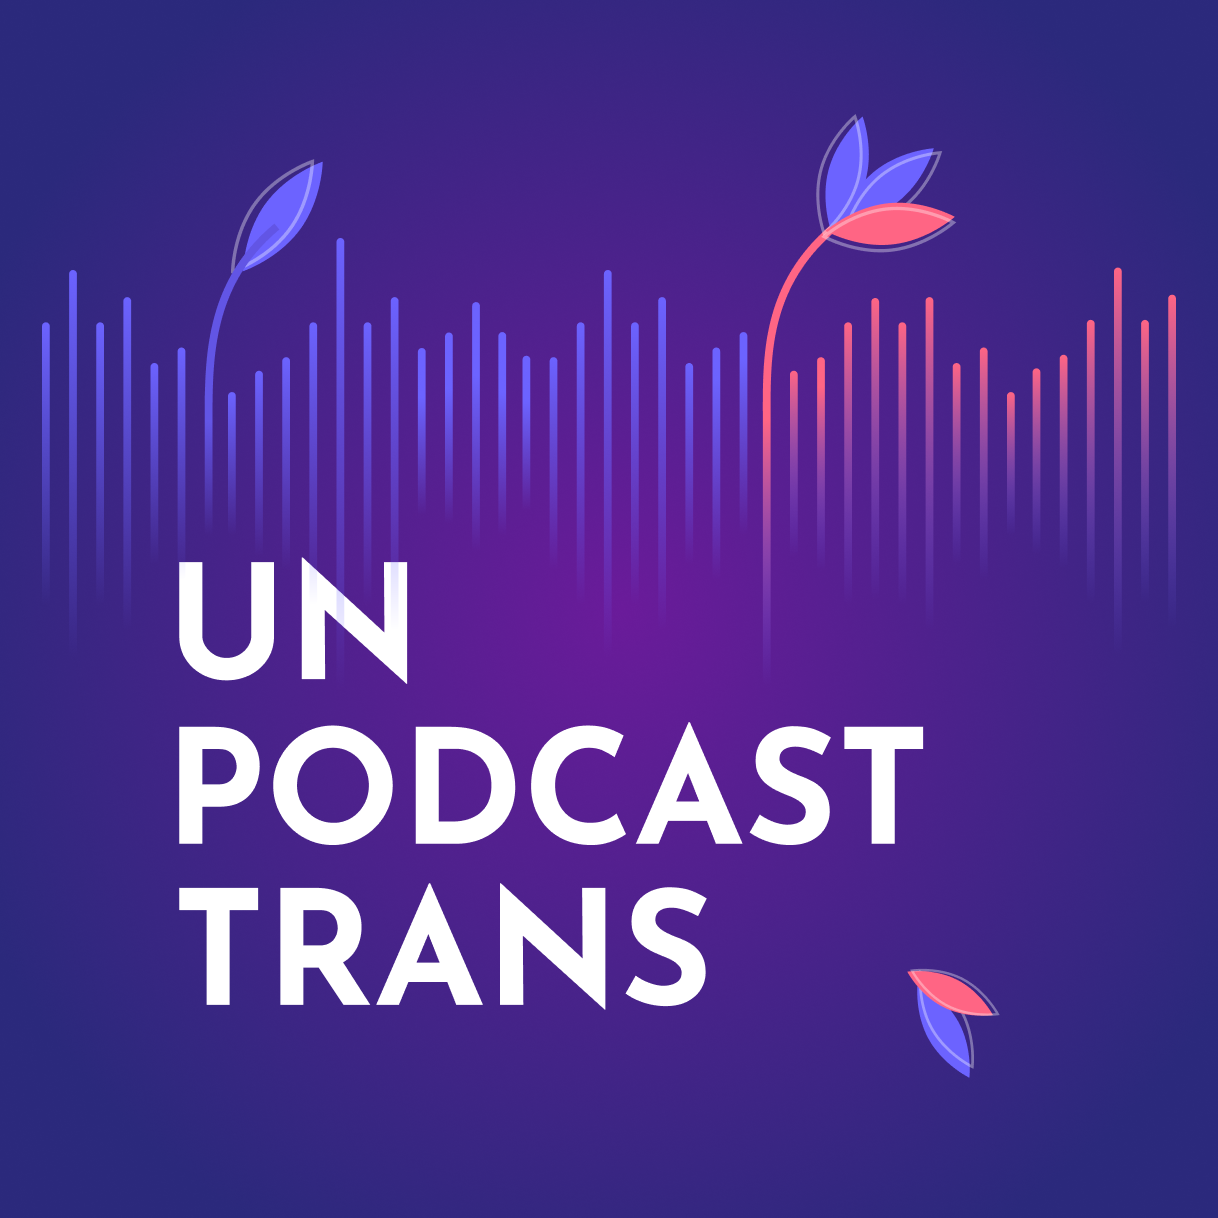
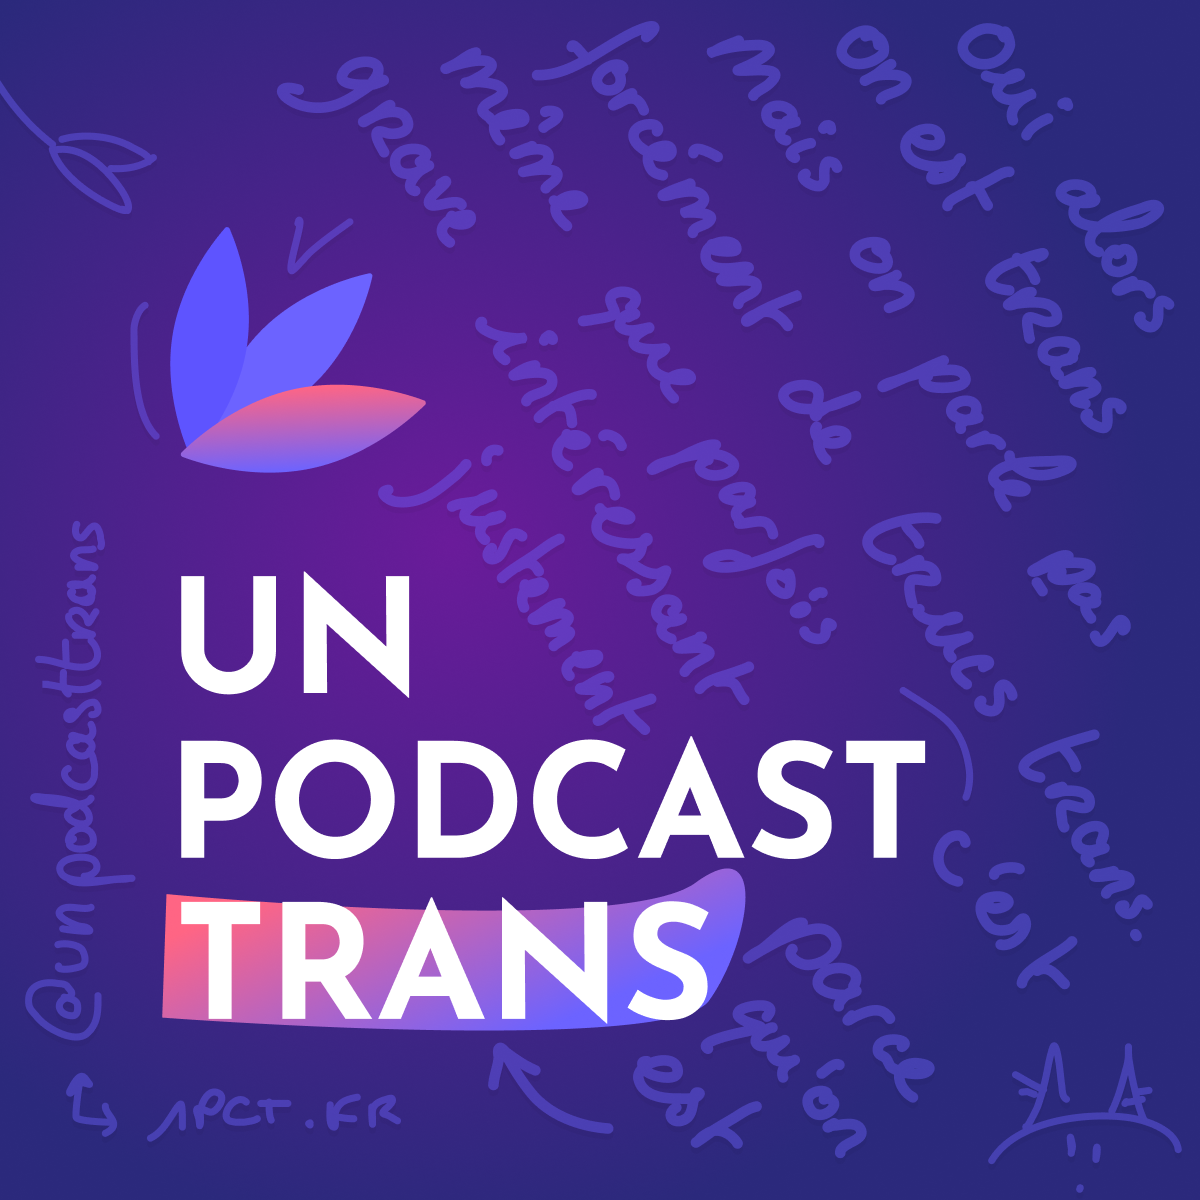
New design and evolved branding

diff --git a/assets/css/style.css b/assets/css/style.css
@@ -145,7 +145,7 @@ h1 {
     text-align: center;
 }
 h2 {
-    font-size: 2.2em;
+    font-size: 2em;
 }
 div.post h1 {
     font-size: 2em;
@@ -293,7 +293,7 @@ body > header {
 @media screen and (max-width:800px) {
     body > header {
         margin-top: 3rem;
-        padding: 2rem 9% 2rem;
+        padding: 4rem 9% 4rem;
     }
 
 }
@@ -309,12 +309,11 @@ body > header:after {
     z-index: -1;
 }
 body > header:before {
-    background: radial-gradient(ellipse at center, #440e88, #340881),
-     radial-gradient(ellipse at bottom, #440e88, #340881);
+    background: radial-gradient(ellipse at center, #6A1B9A, #340881);
 }
 body > header h1 {
     color: #fff;
-    margin-top: 0;
+    margin: 0;
     font-size: 5em;
     vertical-align: middle;
     text-align: center;
@@ -332,9 +331,6 @@ body > header .book-title {
     padding: 0;
     margin: 0 auto;
     box-sizing: border-box;
-    text-align: center;
-}
-body.home > header .book-title {
     text-align: center;
 }
 body > header .book-title small {
@@ -357,11 +353,13 @@ body > header .book-title img {
     box-shadow: 0 2px 5px rgba(0, 0, 0, .1);
 }
 body.home > header .book-title img {
-    height: 140px;
+    height: 100px;
+    box-shadow: none;
 }
 
 @media screen and (max-width:500px) {
-    body > header .book-title img {
+    body > header .book-title img,
+    body.home > header .book-title img {
         height: 90px;
     }
     body > header h1 {
@@ -465,8 +463,28 @@ body > section > * {
     padding: 3rem 9%;
 }
 
-section.introducing h3 {
-    margin: 0;
+
+@media screen and (min-width:750px) {
+  .introducing .post {
+      display: grid;
+      grid-template-columns: repeat(3, 1fr);
+  }
+  .introducing h2 {
+      font-size: 2em;
+      grid-column: 1 / 3;
+      margin-bottom: 0;
+      grid-row: 1;
+  }
+  .introducing p:first-of-type {
+      grid-column: 1 / 3;
+      grid-row: 2;
+      margin-top: 0;
+  }
+  .introducing p:nth-of-type(2) {
+      grid-row: 1 / 3;
+      grid-column: 3;
+      text-align: right;
+  }
 }
 
 
@@ -878,15 +896,14 @@ audio {
 
 .button {
      display: inline-block;
-     padding: 2px 1rem;
+     padding: 5px 1rem;
      margin: 1px 2px .5em;
      border-radius: 50px;
-     background: var(--bg-section-color);
-     border: 3px solid var(--fg-link-color) !important;
+     border-bottom: 0 !important;
+     background-color: #e6e4ff;
 }
 .button:hover {
     background: var(--fg-link-color);
-    border: 3px solid var(--fg-link-color) !important;
     color: #fff;
 }
 .button span,
@@ -897,16 +914,30 @@ audio {
 .button.gray {
     background: var(--faded-color);
     color: var(--fg-post-color);
-    border: 3px solid var(--faded-color) !important;
 }
 .button.gray:hover {
     background: var(--fg-link-color);
-    border: 3px solid var(--fg-link-color) !important;
+    color: #fff;
+}
+.button.twitter {
+    background-color: #cbe1ff;
+    color: #408ffa;
+}
+.button.twitter:hover {
+    background-color: #408ffa;
+    color: #fff;
+}
+.button.rss {
+    background-color: rgb(255, 215, 196);
+    color: rgb(224, 77, 0);
+}
+.button.rss:hover {
+    background-color: rgb(224, 77, 0);
     color: #fff;
 }
 .button.anchor {
     color: #8940fa;
-    border: 3px solid #8940fa !important;
+    background-color: #eee3ff;
 }
 .button.anchor span {
     transition: all .2s;
@@ -919,16 +950,16 @@ audio {
     color: #fff;
 }
 .button.spotify {
-    border-color: #1DB954 !important;
     color: #1DB954;
+    background-color: #def5e5;
 }
 .button.spotify:hover {
     background-color: #1DB954 !important;
     color: #fff;
 }
 .button.pocketcasts {
-    border-color: #d9324c !important;
     color: #d9324c;
+    background-color: #fcdfe4;
 }
 .button.pocketcasts:hover {
     background-color: #d9324c !important;
@@ -941,8 +972,8 @@ audio {
     filter: brightness(100);
 }
 .button.overcast {
-    border-color: #d96c00 !important;
     color: #d96c00;
+    background-color: #ffeedd;
 }
 .button.overcast:hover {
     background-color: #d96c00 !important;

diff --git a/_layouts/default.html b/_layouts/default.html
@@ -9,8 +9,7 @@
     <header>
         <div class="book-title">
             {% if page.layout == "home" or page.layout == "archive" or page.layout == "about" %}
-                <h1><a href="/"><img src="/images/Cover.png" alt="Un Podcast Trans"></a></h1>
-                <h2>On bavarde, on se redécouvre, et puis on est trans ✨</h2>
+                <h1><a href="/"><img src="/images/Logo.png" alt="Un Podcast Trans"></a></h1>
             {% else %}
                 <a href="/"><img src="/images/Cover.png" alt="Un Podcast Trans"></a>
                 <small><time datetime='{{ page.date | date_to_xmlschema }}' class="top">{% include date.html date=page.date %}</time></small>

diff --git a/_includes/buttons.html b/_includes/buttons.html
@@ -1,0 +1,13 @@
+<p>
+<a href="https://twitter.com/unpodcasttrans" class="button twitter"><i class='fab fa-twitter'></i> Twitter</a>
+
+<a href="{{ site.apple }}" class="button"><i class="fas fa-podcast"></i> Apple Podcasts</a>
+
+<a href="{{ site.spotify }}" class="button spotify"><i class="fab fa-spotify"></i> Spotify</a>
+
+<a href="{{ site.pocketcasts }}" class="button pocketcasts"><span class="icon-pocketcasts"></span> Pocket Casts</a>
+
+<a href="{{ site.overcast }}" class="button overcast"><span class="icon-overcast"></span> Overcast</a>
+
+<a href="{{site.rss}}" class="button rss"><i class='fas fa-rss'></i> Flux RSS</a>
+</p>

diff --git a/_layouts/home.html b/_layouts/home.html
@@ -5,6 +5,7 @@ home-post: "true"
 <section class="introducing">
     <div class="post">
         {{ content }}
+        {% include buttons.html %}
     </div>
 </section>
 

diff --git a/index.md b/index.md
@@ -4,12 +4,5 @@ type: pages
 layout: home
 permalink: /
 ---
-Nos vies ne tournent pas toujours autour de nos transidentités, ce podcast non plus : nous discutons de nos activités, de nos passions, et parfois du fait qu'on est trans :D
-
-[<i class='fab fa-twitter'></i> Nous suivre](https://twitter.com/unpodcasttrans){: class="button gray"}
-[<i class='fas fa-rss'></i> Flux RSS]({{site.rss}}){: class="button gray"}
-[<i class='fas fa-podcast'></i> Apple Podcasts]({{site.apple}}){: class="button"}
-[<span class='icon-anchor'></span> Anchor]({{site.anchor}}){: class="button anchor"}
-[<i class='fab fa-spotify'></i> Spotify]({{site.spotify}}){: class="button spotify"}
-[<span class="icon-pocketcasts"></span> Pocket Casts]({{site.pocketcasts}}){: class="button pocketcasts"}
-[<span class="icon-overcast"></span> Overcast]({{site.overcast}}){: class="button overcast"}
+## On bavarde, on se redécouvre, et puis on est trans ✨
+Nos vies ne tournent pas toujours autour de nos transidentités, ce podcast non plus : tous les mois nous discutons de nos activités, de nos passions, mais parfois aussi du fait qu’on est trans :D
